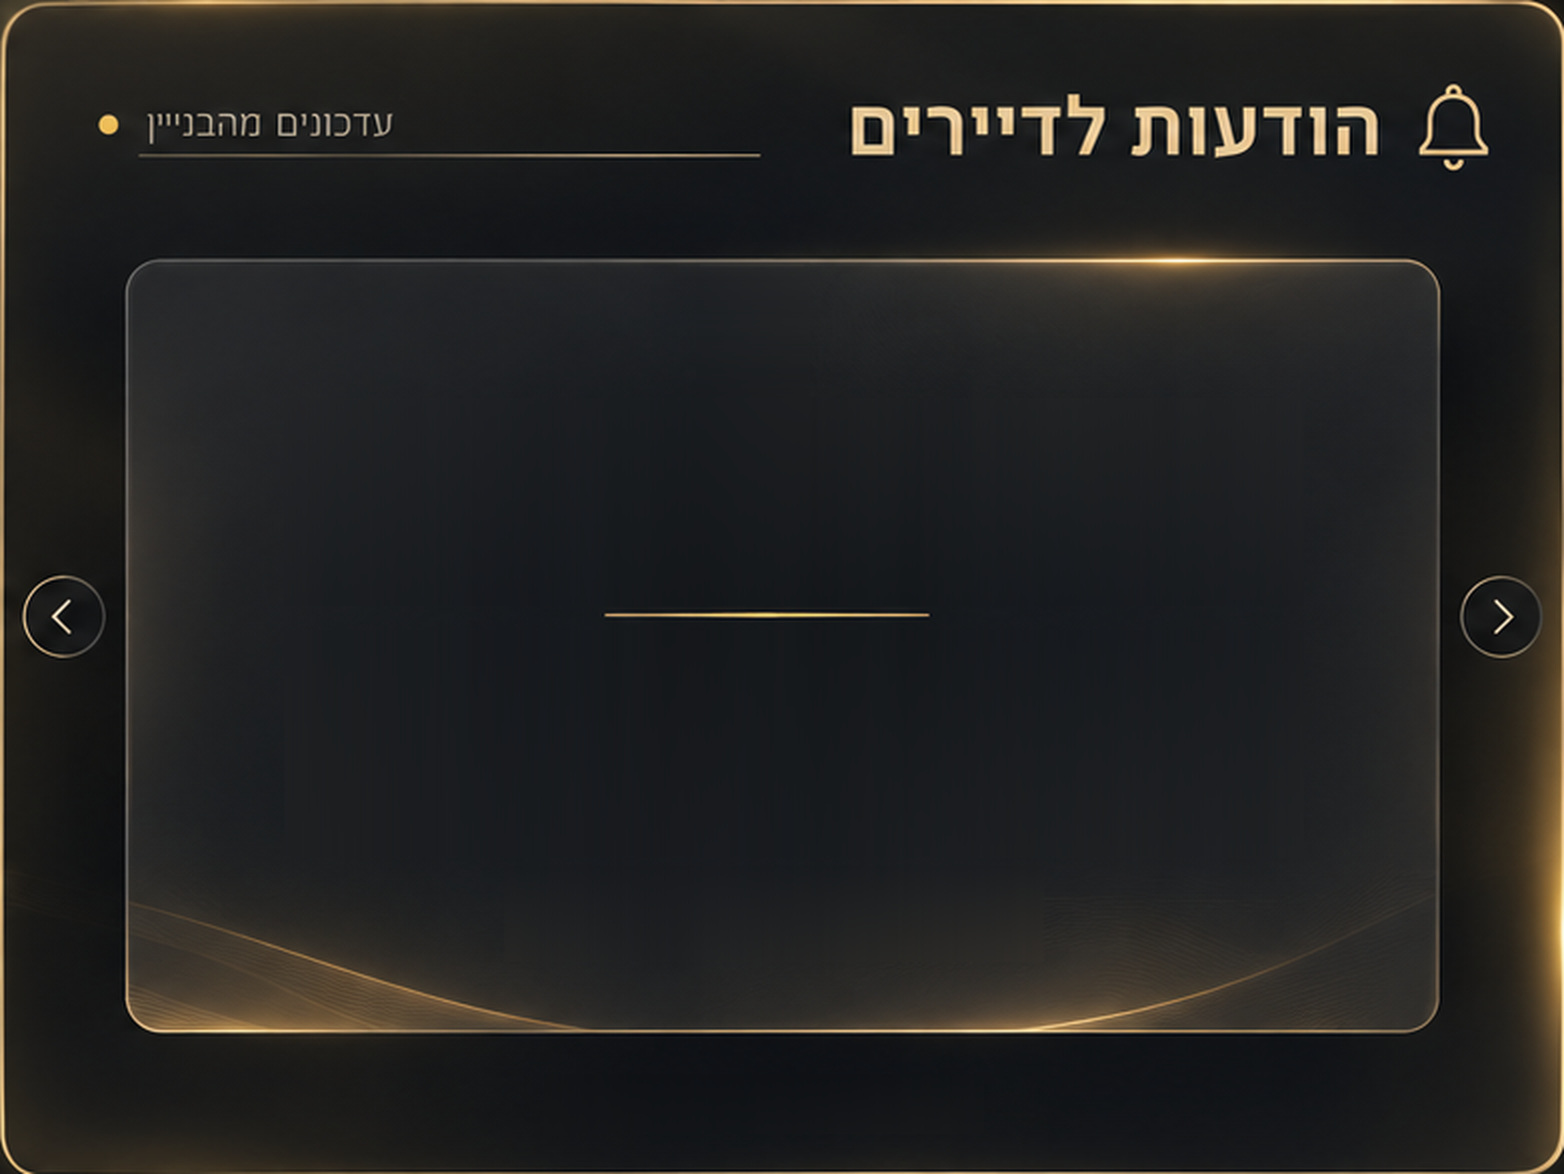
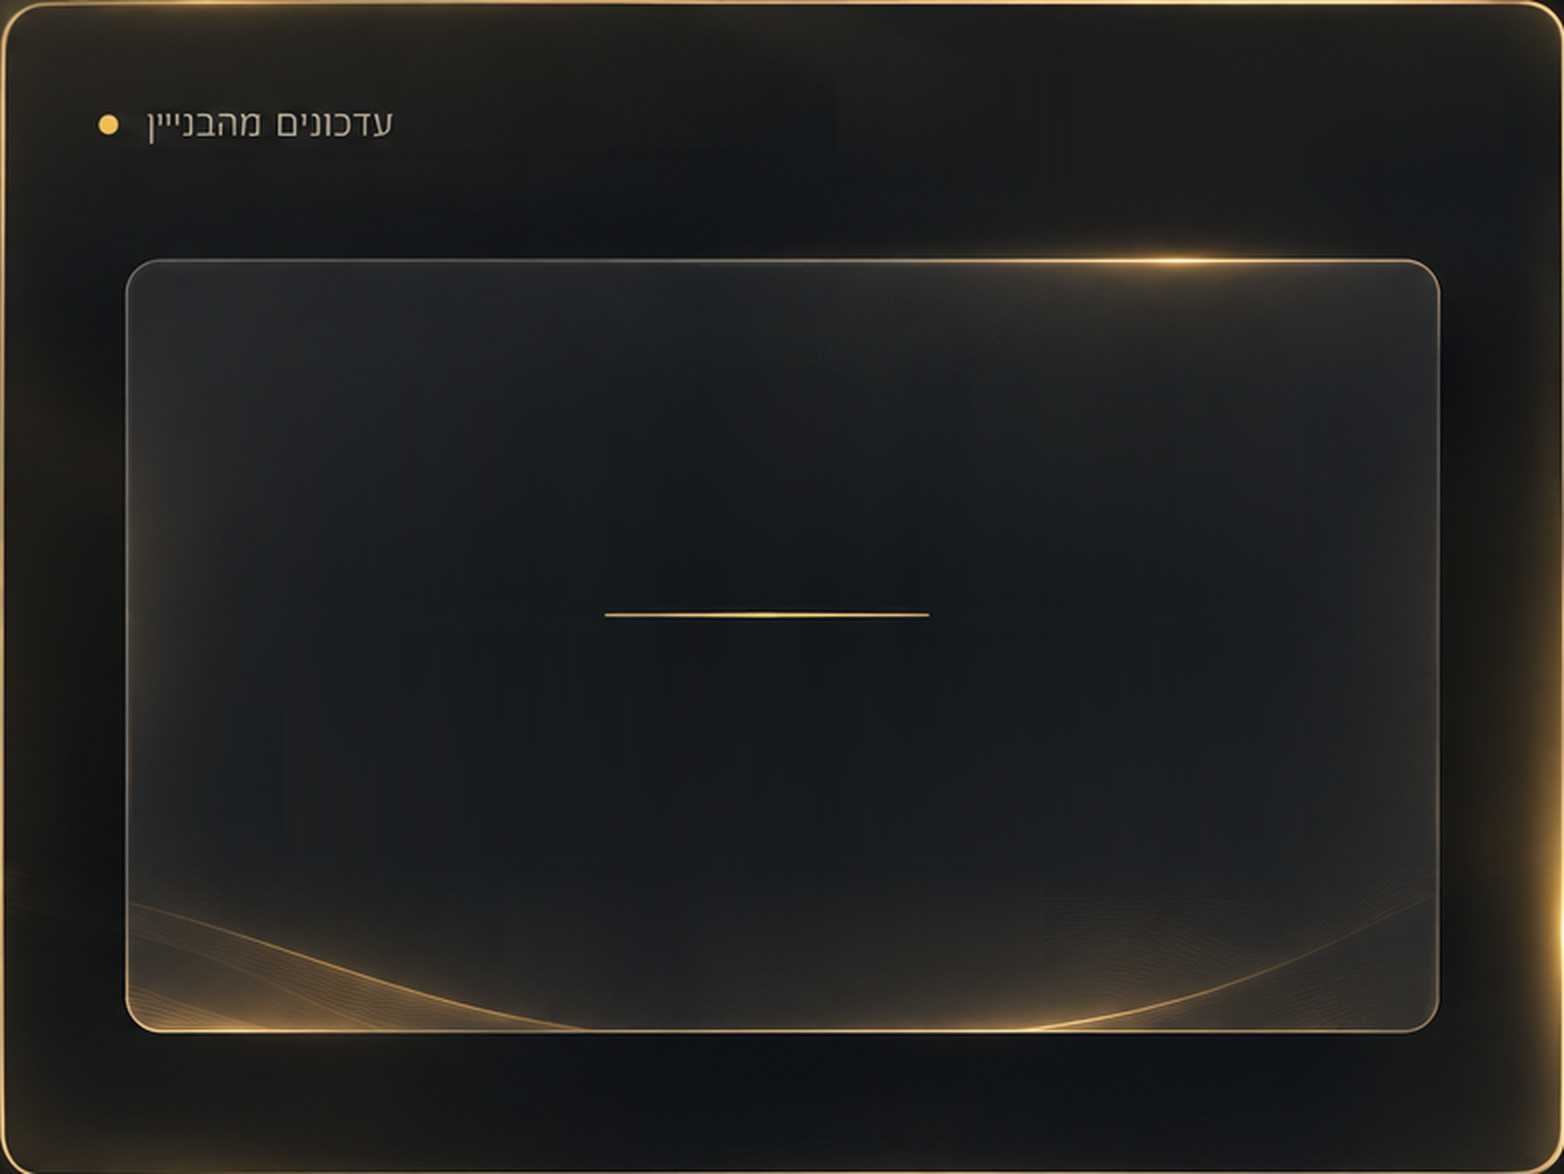
v8.6: ONE card returns, notices header cleaned up
Three changes to the notices card, all of them changes to the CHROME, so all
three were done by erasing from the image rather than in CSS:

- The chevrons are gone for good. Aviv: it is a lobby page, there is no
  functionality here. He was right about them back in v8.2.1 and they only
  returned because they were in the image he sent.
- The rule beside "עדכונים מהבניין" is gone. It is a 2px spike at y302-303
  with letter descenders immediately above it, so there is no clean row to
  interpolate from on that side — it is filled flat from the rows below
  instead, five pixels of constant background that a lerp would only
  complicate.
- "הודעות לדיירים" is centred. It was baked on the right, so it and its bell
  were erased and are drawn live in the middle. Size and colour measured off
  the source: 30px cap on its 587px card, which is 48px here, at #EFD09D.

A bug caught in that last one: the first measuring window started at x=1270
and cut the title's left half, leaving "יירים" sitting on screen. Measured
across the whole header it is (1184,267)-(1501,309).

ONE IS BACK, in one line. The slot above the Shabbat card is filled by
'stack' => array( 'sports-panel', 'shabbat-panel' ) and nothing else changed.
The widget and the feed parser have been here since v7 and were only
unlisted — which is exactly what composing the screen in one file was for.

Data is https://www.one.co.il/rss: 53 items newest-first, which is the order
[…]

diff --git a/wordpress/lobby-screens-theme/style.css b/wordpress/lobby-screens-theme/style.css
@@ -498,6 +498,33 @@ img{display:block;}
 }
 .card-label-chev{flex:0 0 auto;width:15px;height:15px;color:var(--gold);}
 
+/* ---------- the ONE card's frame (v8.6) ----------
+   The other two cards are Aviv's own images. There is no reference for a
+   sports card, so this frame is BUILT to match them rather than cut out of
+   one: the same conic metal, the same radius, the same bloom. It is the only
+   card on screen whose chrome is CSS, and if a reference turns up it swaps to
+   the image treatment the same way the other two did. */
+.w-feed{
+  /* The slot is 337px and the card has to hold a label row, a hero and two
+     list rows. Measured on the first pass: 130px of rows in a 77px box, so the
+     second headline was simply cut off. The budget below is what fits —
+     label 34+10, hero 128+10, two rows at 58, padding 16+14, border 4 = 332. */
+  padding:16px 24px 14px;
+  border:2px solid transparent;
+  border-radius:24px;
+  background:
+    linear-gradient(180deg, var(--card-top) 0%, var(--card-bot) 100%) padding-box,
+    conic-gradient(from 212deg at 50% 50%,
+      #6F5F39 0%,   #D8C08C 7%,   #FAF2D8 13%,  #A89059 21%,
+      #7C6B3E 29%,  #D4AC2E 38%,  #F8EECE 45%,  #9E8752 53%,
+      #6F5F39 60%,  #C9A227 69%,  #FAF2D8 77%,  #A89059 85%,
+      #8A7646 93%,  #6F5F39 100%) border-box;
+  box-shadow:
+    0 0 70px -10px rgba(201,162,39,.42),
+    0 0 22px -6px rgba(201,162,39,.24),
+    0 26px 60px -30px rgba(0,0,0,.9);
+}
+
 /* ---------- FeedPanel — shared by the Ynet and ONE cards ----------
    Both are the same component: a rotating hero (image, category tag, headline,
    standfirst) over a static list of secondary updates. Only the partner logo,
@@ -552,12 +579,29 @@ img{display:block;}
 
 /* wide variant: short card, so the hero image sits BESIDE its headline
    instead of above it. Same component, same data — only the axis changes. */
-.is-wide .w-feed-hero{flex:0 0 156px;margin-bottom:16px;}
+.is-wide .card-label{height:34px;margin-bottom:10px;font-size:18px;}
+.is-wide .card-label-mark img{height:24px;}
+.is-wide .w-feed-hero{flex:0 0 128px;margin-bottom:10px;}
 .is-wide .w-feed-hero-item{flex-direction:row;gap:18px;align-items:stretch;}
-.is-wide .w-feed-media{flex:0 0 238px;height:100%;}
+.is-wide .w-feed-media{flex:0 0 218px;height:100%;}
 .is-wide .w-feed-copy{flex:1 1 auto;justify-content:center;}
-.is-wide .w-feed-title{margin-top:0;font-size:23px;-webkit-line-clamp:2;}
-.is-wide .w-feed-standfirst{-webkit-line-clamp:3;}
+/* the lead headline is the one thing on this card a resident reads from across
+   the lobby, so it takes the size the standfirst gives up */
+.is-wide .w-feed-title{margin-top:0;font-size:27px;-webkit-line-clamp:2;line-height:1.2;}
+/* one line, not two: at this card height the standfirst was eating the room
+   the second headline needed, and it is the least readable thing on the card
+   from across a lobby anyway */
+.is-wide .w-feed-standfirst{margin-top:6px;font-size:16px;-webkit-line-clamp:1;}
+.is-wide .w-feed-item{padding:7px 0;}
+.is-wide .w-feed-item:first-child{padding-top:0;}
+.is-wide .w-feed-thumb{flex:0 0 72px;height:46px;}
+/* one line here, unlike the tall card's two. The list box is 121px and two
+   rows come to 116 at one line each — at two lines a single long headline
+   grows its row and pushes the next one out of the card. A clamped row height
+   is deterministic; a clipped second headline is a bug waiting for a slow news
+   day. */
+.is-wide .w-feed-item-title{font-size:18px;-webkit-line-clamp:1;}
+.is-wide .w-feed-time{font-size:14px;}
 
 .w-feed-list{
   flex:1 1 auto;min-height:0;
@@ -805,6 +849,20 @@ img{display:block;}
   overflow:visible;
 }
 .w-notices-art{width:100%;height:100%;display:block;}
+
+/* v8.6 — drawn rather than baked, because Aviv wanted it centred and the
+   image has it on the right. Size and colour are measured off the source:
+   30px cap on its 587px card, which is 48px here, at #EFD09D. */
+.w-notices-head{
+  position:absolute;left:50%;top:10.6%;
+  transform:translate(-50%,-50%);
+  display:flex;align-items:center;gap:16px;
+  margin:0;
+  font-size:48px;font-weight:700;line-height:1;
+  color:#EFD09D;
+  white-space:nowrap;
+}
+.w-notices-head svg{width:44px;height:44px;flex:0 0 auto;}
 
 .w-notices-deck{position:absolute;inset:0;}
 .w-notice{

diff --git a/wordpress/lobby-screens-theme/template-parts/widgets/residents-panel.php b/wordpress/lobby-screens-theme/template-parts/widgets/residents-panel.php
@@ -7,9 +7,15 @@
  * and live spans positioned back into the holes. He asked for the two cards to
  * be built the same way so they read as a pair, and this is that.
  *
+ * v8.6 — Aviv struck the chevrons for good (a control shape on a screen with
+ * nothing to press it with), struck the rule beside "עדכונים מהבניין", and
+ * asked for the card title centred. All three are changes to the CHROME, so
+ * all three were erased out of the image: the chevrons and the rule for good,
+ * the title and its bell so they can be redrawn in the middle.
+ *
  * Baked, because it never changes: the frame and its glow, the inner panel and
- * its top highlight, the gold sweep, the bell, "הודעות לדיירים", the hairline,
- * the pip and "עדכונים מהבניין", both chevrons, and the rule under the title.
+ * its top highlight, the gold sweep, the pip and "עדכונים מהבניין", and the
+ * rule under the notice title.
  *
  * Live, because it does: the notice glyph, the title, the body, the date, and
  * the position dots. The dots had to come out of the image — there are five in
@@ -41,6 +47,14 @@ $glyphs = array(
 ?>
 <section class="card w-notices reveal">
   <img class="w-notices-art" src="<?php echo esc_url( $theme_uri . '/assets/images/notices-card.jpg' ); ?>" alt="">
+
+  <?php /* v8.6 — the title and its bell come out of the chrome and are drawn
+          live, because Aviv asked for them centred and they were baked to the
+          right. Everything else in the header is still his pixels. */ ?>
+  <h2 class="w-notices-head">
+    <svg viewBox="0 0 24 24" fill="none" stroke="currentColor" stroke-width="1.6" stroke-linecap="round" stroke-linejoin="round" aria-hidden="true"><?php echo $glyphs['bell']; // phpcs:ignore ?></svg>
+    <span>הודעות לדיירים</span>
+  </h2>
 
   <div class="w-notices-deck" data-rotator="<?php echo $multiple ? 10000 : 0; ?>" data-rotator-dots="noticesDots">
     <?php foreach ( $notices as $n => $notice ) : ?>

diff --git a/wordpress/lobby-screens-theme/front-page.php b/wordpress/lobby-screens-theme/front-page.php
@@ -86,12 +86,11 @@ $lobby = array(
 	// the whole point of composing the screen here — not a rebuild.
 	'zones'    => array(
 		'lead'  => array( 'residents-panel' ),
-		// v8.3 — the Shabbat card is back, in the lower half of the left
-		// column. The upper half is deliberately left open: Aviv asked for
-		// room for a second frame of the same size above it, and a lone panel
-		// drops to the bottom slot on its own (see .zone-stack in style.css).
-		// Adding 'sports-panel' ahead of it fills that slot.
-		'stack' => array( 'shabbat-panel' ),
+		// v8.6 — the slot above the Shabbat card is filled, exactly as the
+		// architecture promised: one word in this array, no other change. The
+		// ONE card and its feed parser have been here since v7 and were only
+		// ever unlisted.
+		'stack' => array( 'sports-panel', 'shabbat-panel' ),
 	),
 );
 

diff --git a/README.md b/README.md
@@ -2,7 +2,33 @@
 
 מוצר שילוט דיגיטלי למסכי לובי בבנייני מגורים (יעד: מסך ~40 אינץ', רזולוציית טלוויזיה). בהשראת מוצרים קיימים בשוק (dlobby.co.il, מסך NYMEDIA שאביב צילם בבניין אמיתי) — אבל בכיוון עיצובי ותוכני משלנו.
 
-## סטטוס נוכחי (11.10.2026) — v8.5, שני הכרטיסים בנויים אותו דבר
+## סטטוס נוכחי (11.10.2026) — v8.6, ONE חוזר + ניקוי כותרת ההודעות
+
+### שלושה שינויים בכרטיס ההודעות — כולם בשלד, לא ב-CSS
+
+כל השלושה הם שינויים ב**תמונה**, אז כולם בוצעו כמחיקה ממנה:
+
+- **החיצים ירדו סופית.** אביב: זה דף לובי, אין פה פונקציונליות. הוא צדק עליהם כבר ב-v8.2.1 והם חזרו רק כי היו בתמונה ששלח; עכשיו הם נמחקו מהשלד.
+- **הקו ליד "עדכונים מהבניין" ירד.** הוא ספייק של 2px ב-y302-303 עם זנבות אותיות ממש מעליו, כלומר **אין שורה נקייה לדגום ממנה מלמעלה**. לכן הוא מולא במילוי שטוח מהשורות שמתחתיו — חמישה פיקסלים של רקע קבוע, שהחלקה הייתה רק מסבכת.
+- **הכותרת "הודעות לדיירים" ממורכזת.** היא הייתה אפויה בימין, אז היא והפעמון נמחקו מהשלד ומצוירים עכשיו חי במרכז. הגודל והצבע נמדדו מהמקור: גובה אות 30px על כרטיס של 587 = 48px אצלנו, בצבע `#EFD09D`.
+
+**באג שנתפס**: חלון המדידה הראשון של הכותרת התחיל ב-x=1270 וחתך את החצי השמאלי שלה — נשאר "יירים" על המסך. מדידה מחדש על כל רוחב הכותרת נתנה (1184,267)-(1501,309).
+
+### ONE חזר — שורה אחת
+
+המשבצת שמעל כרטיס השבת מלאה. `'stack' => array( 'sports-panel', 'shabbat-panel' )` — **זה כל השינוי**. הווידג'ט ומפענח הפיד קיימים מ-v7 והיו פשוט לא רשומים. זו בדיוק ההבטחה של ההרכבה בקובץ אחד.
+
+הנתונים מ-`https://www.one.co.il/rss` — 53 פריטים בסדר כרונולוגי הפוך, כלומר הכתבות שבראש האתר, כולן עם תמונה. כותרת ראשית עם תמונה שמתחלפת בין שתיים, ושתי כותרות נוספות מתחת.
+
+**המסגרת של ONE היא היחידה ב-CSS ולא תמונה**, כי אין לה רפרנס. היא בנויה מאותה מתכת conic, אותו רדיוס ואותו זוהר כמו השתיים האחרות. אם יגיע רפרנס היא עוברת לטיפול התמונה כמו שהן עברו.
+
+**שני באגי מקום שנמדדו**:
+- המעבר הראשון דחף 130px של שורות לתיבה של 77px — הכותרת השנייה פשוט נחתכה. התקציב סודר: תווית 34+10, הירו 128+10, שתי שורות של 58, ריפוד 16+14, מסגרת 4 = 332 מתוך 337.
+- שורות הרשימה מוגבלות ל**שורת טקסט אחת**, לא שתיים כמו בכרטיס הגבוה. בשתיים, כותרת ארוכה אחת מגדילה את השורה שלה ודוחפת את הבאה מחוץ לכרטיס. גובה שורה דטרמיניסטי עדיף על כותרת שנחתכת ביום חדשות איטי.
+
+---
+
+## v8.5 — שני הכרטיסים בנויים אותו דבר
 
 אביב ביקש שכרטיס ההודעות ייבנה **באותו קונספט** כמו כרטיס השבת, כדי שהשניים ייקראו כזוג. עכשיו שניהם עובדים ככה: הכרטיס הוא **התמונה שלו**, עם מחרוזות הטקסט המשתנות מחוקות ממנה, וטקסט חי שמונח בחזרה בחורים.
 
